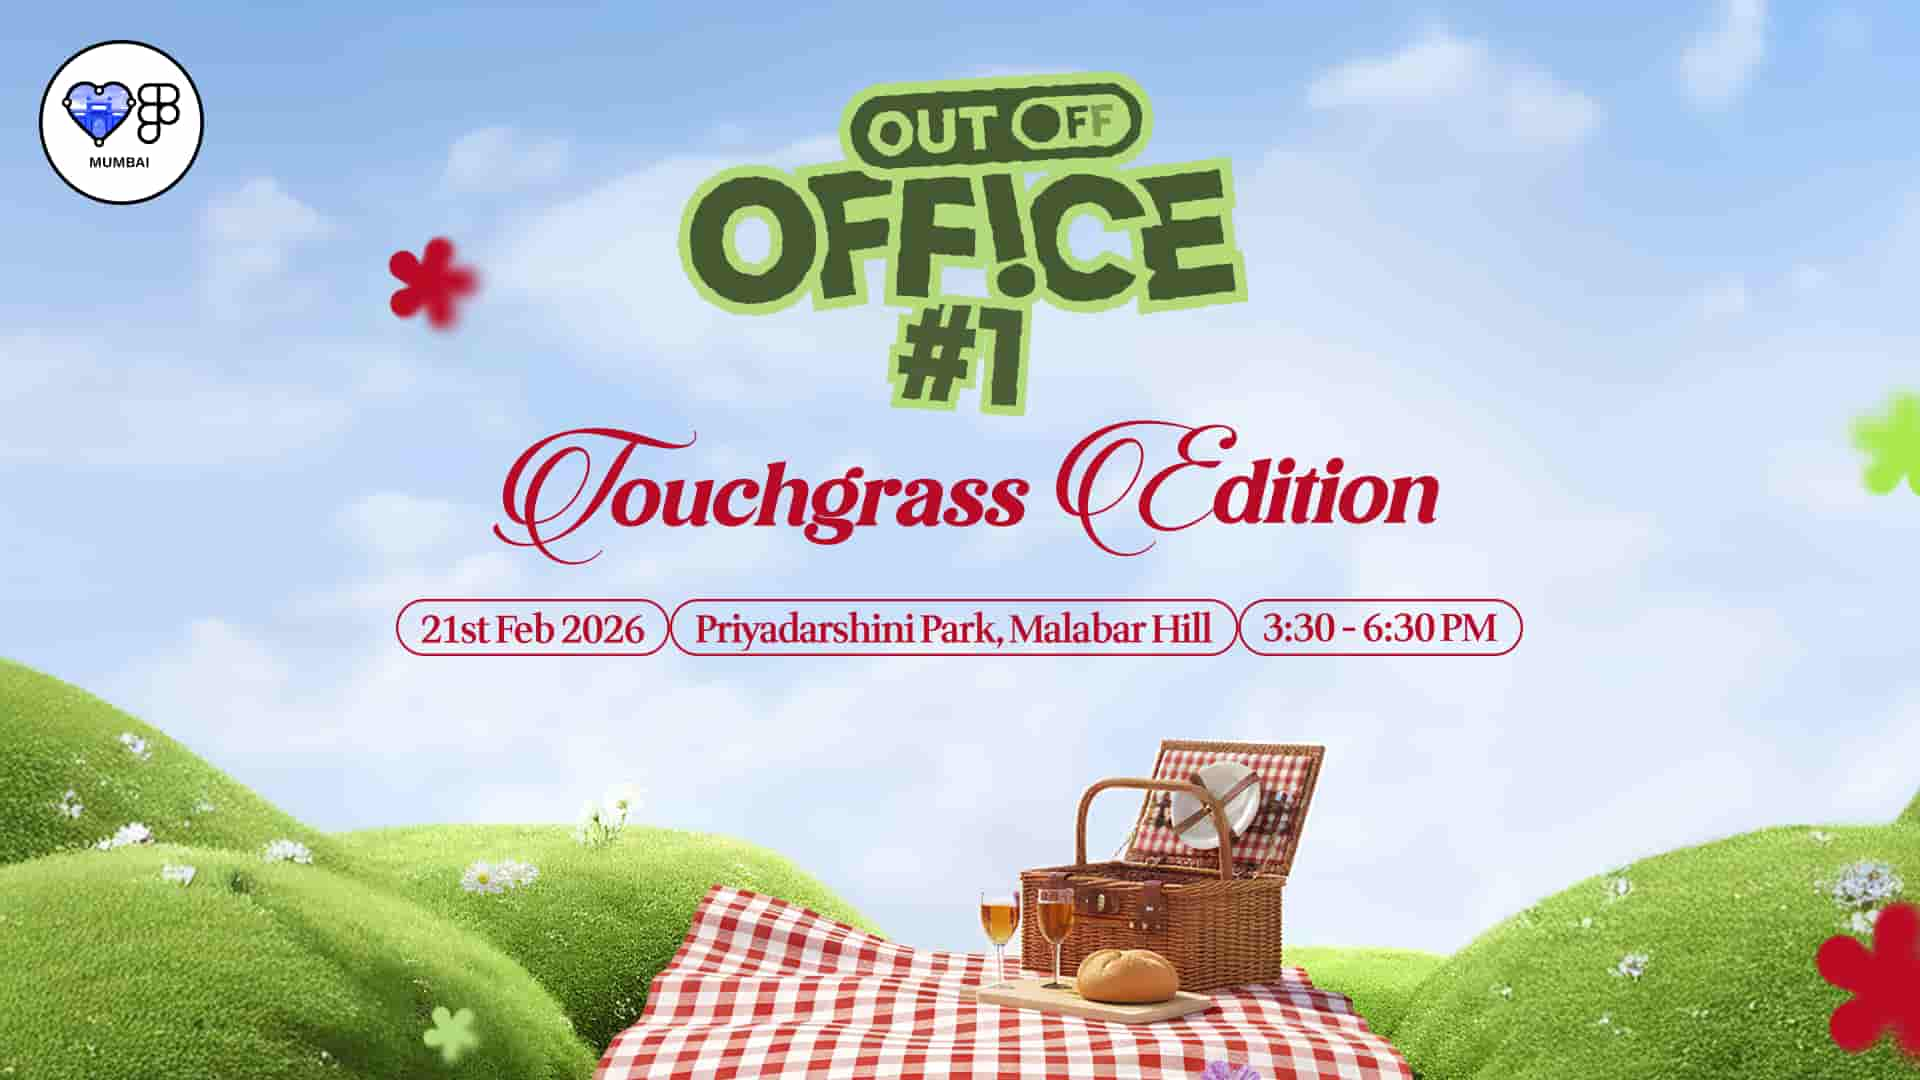
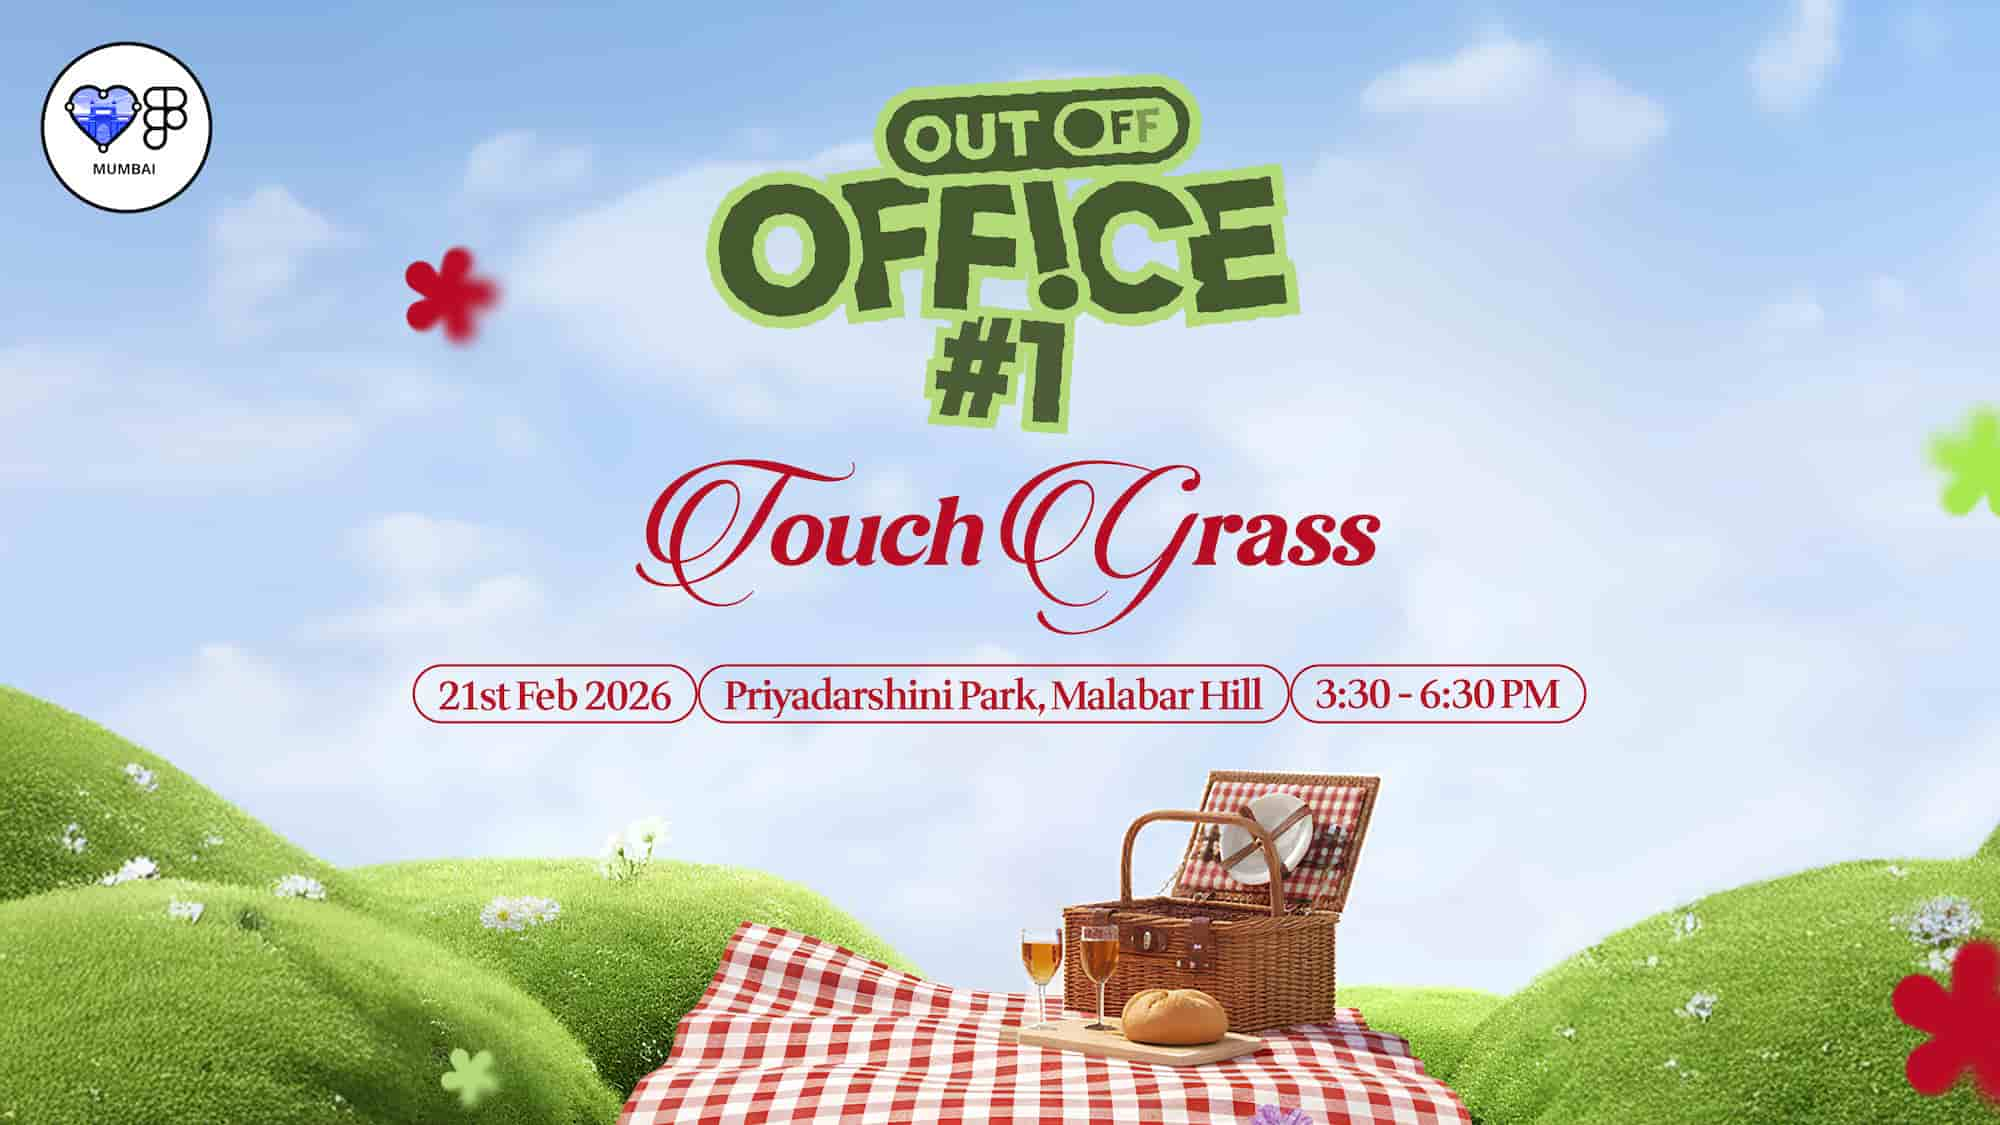
ooo

diff --git a/about.html b/about.html
@@ -114,7 +114,7 @@
 												"description": "Tell your cat I said *psps* ",
 												"customContent": "<div class=\"custom-section\"><p>In the world of Cocktails, you’ve got to have a perfect mix.<br> I am like a great mix with just right balance of hardwork, fresh perspective and seasoned knowledge to create something beautiful and innovative</p></div>",
 												"redirectLinks": [
-												{"url": "https://kuchbhikunal.com", "text": "Portfolio - kuchbhikunal.com"}
+												{"url": "https://kuchbhikunal.com", "text": "kuchbhikunal.com"}
 												]
 											}'>
 					<img src="https://res.cloudinary.com/dfw2ve6i6/image/upload/v1730830267/kunal_yr9idq.svg" alt=""
@@ -213,20 +213,21 @@
 					<a class="button button-link">Data & Registration</a>
 				</div>
 
-				<!-- <div class="thirdfold__data" data-modal-content='{
-																"image": "https://res.cloudinary.com/dfw2ve6i6/image/upload/v1731003275/sakshi-modal_tkgnad.png",
-																"title": "Sakshi Shah",
+				<div class="thirdfold__data" data-modal-content='{
+																"image": "https://res.cloudinary.com/dfw2ve6i6/image/upload/v1770876366/penaaz-modal_vzmka2.png",
+																"title": "Penaaz Valecha",
 																"socialLinks": [
-																	{"url": "https://www.linkedin.com/in/sakshiishahh/", "icon": "bxl-linkedin"}
+																	{"url": "https://www.linkedin.com/in/sakshiishahh/", "icon": "bxl-linkedin"},
+																	{"url": "https://www.instagram.com/penaazvalecha/", "icon": "bxl-instagram"}
 																],
 																"description": "",
 																"customContent": "<div class=\"custom-section\"><p>I’m a curious mind who loves turning everyday challenges into creative wins. My design journey started with a spark of curiosity and grew into solving problems that feel as good as they look. I thrive on empathy, lively collaboration, and using design to add a bit more awesomeness to the world.</p></div>"
 															}'>
-					<img src="https://res.cloudinary.com/dfw2ve6i6/image/upload/v1731003368/sakshi_v8kgpv.svg" alt=""
+					<img src="https://res.cloudinary.com/dfw2ve6i6/image/upload/v1770876203/penaaz_v03ddx.svg" alt=""
 						class="thirdfold__img" style="margin-bottom: 1rem;">
-					<h3 class="thirdfold__title">Sakshi</h3>
-					<a class="button button-link">Hospitality</a>
-				</div> -->
+					<h3 class="thirdfold__title">Penaaz</h3>
+					<a class="button button-link">Partnerships</a>
+				</div>
 
 				<div class="thirdfold__data" data-modal-content='{
 																"image": "https://res.cloudinary.com/dfw2ve6i6/image/upload/v1731174369/piyul-modal_xtl0fm.png",

diff --git a/events.html b/events.html
@@ -121,10 +121,10 @@
 
 
 			<div class="fourthfold__container bd-grid">
-				<a href="https://fofmumbai.com/wireframed25"
-                    class="fourthfold__content" data-type="core">
+				<a href="https://luma.com/p67mdc78" target="_blank"
+                    class="fourthfold__content" data-type="ooo">
                     <img src="events/eventassets/ooo1poster.jpg" alt="" class="fourthfold__img">
-                    <h3 class="fourthfold__title">Out of Office #1 - Touch Grass Edition</h3>
+                    <h3 class="fourthfold__title">Out of Office #1 - Touch Grass</h3>
                     <span class="fourthfold__category">In-person</span>
                     <span class="button fourthfold__button"><i class='bx bx-right-arrow-alt'></i></span>
                 </a>

diff --git a/index.html b/index.html
@@ -202,8 +202,8 @@
                 <div class="fifthfold__container bd-container bd-grid">
                     <div class="fifthfold__content">
                         <img src="assets/img/upcoming.svg" alt="" class="upcoming__tag">
-                        <img src="assets/img/core-tag.svg" alt="" class="upcoming__tag">
-                        <h2 class="section-title-center fifthfold__title">Out of Office #1</h2>
+                        <img src="assets/img/ooo-tag.svg" alt="" class="upcoming__tag">
+                        <h2 class="section-title-center fifthfold__title">Out of Office #1 - Touch Grass</h2>
 
                         <h6 style="margin: -10px 0 15px 0; font-weight: 500; font-size: 15px;">21st February</h6>
 
